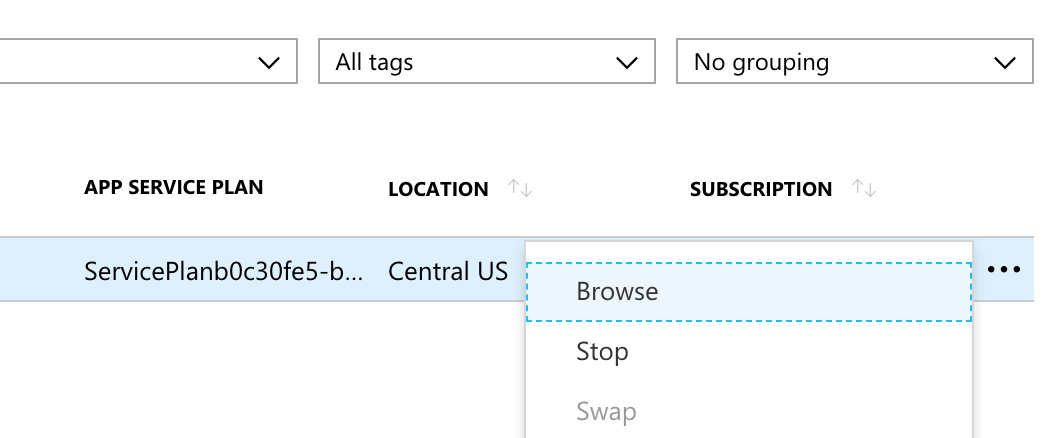
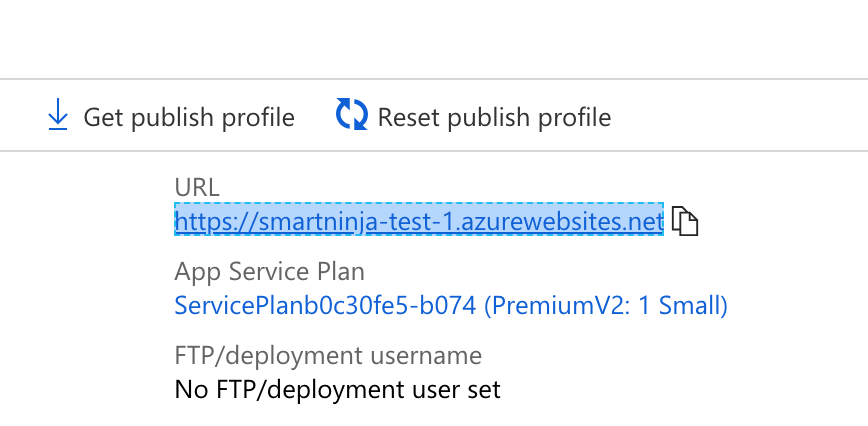
image updated

diff --git a/README.md b/README.md
@@ -68,11 +68,11 @@ Click on **Go to resource** now.
 
 ### App Services list
 
-Go to the App Services tab, where you can see your new web app listed:
+Go to the App Services tab, where you can see your new web app listed (click on it):
 
 ![](img/app-services-list.png)
 
-Click on the three dots on the right side and select **Browse**:
+Click on the URL for your new website:
 
 ![](img/browse-website-1.png)
 
